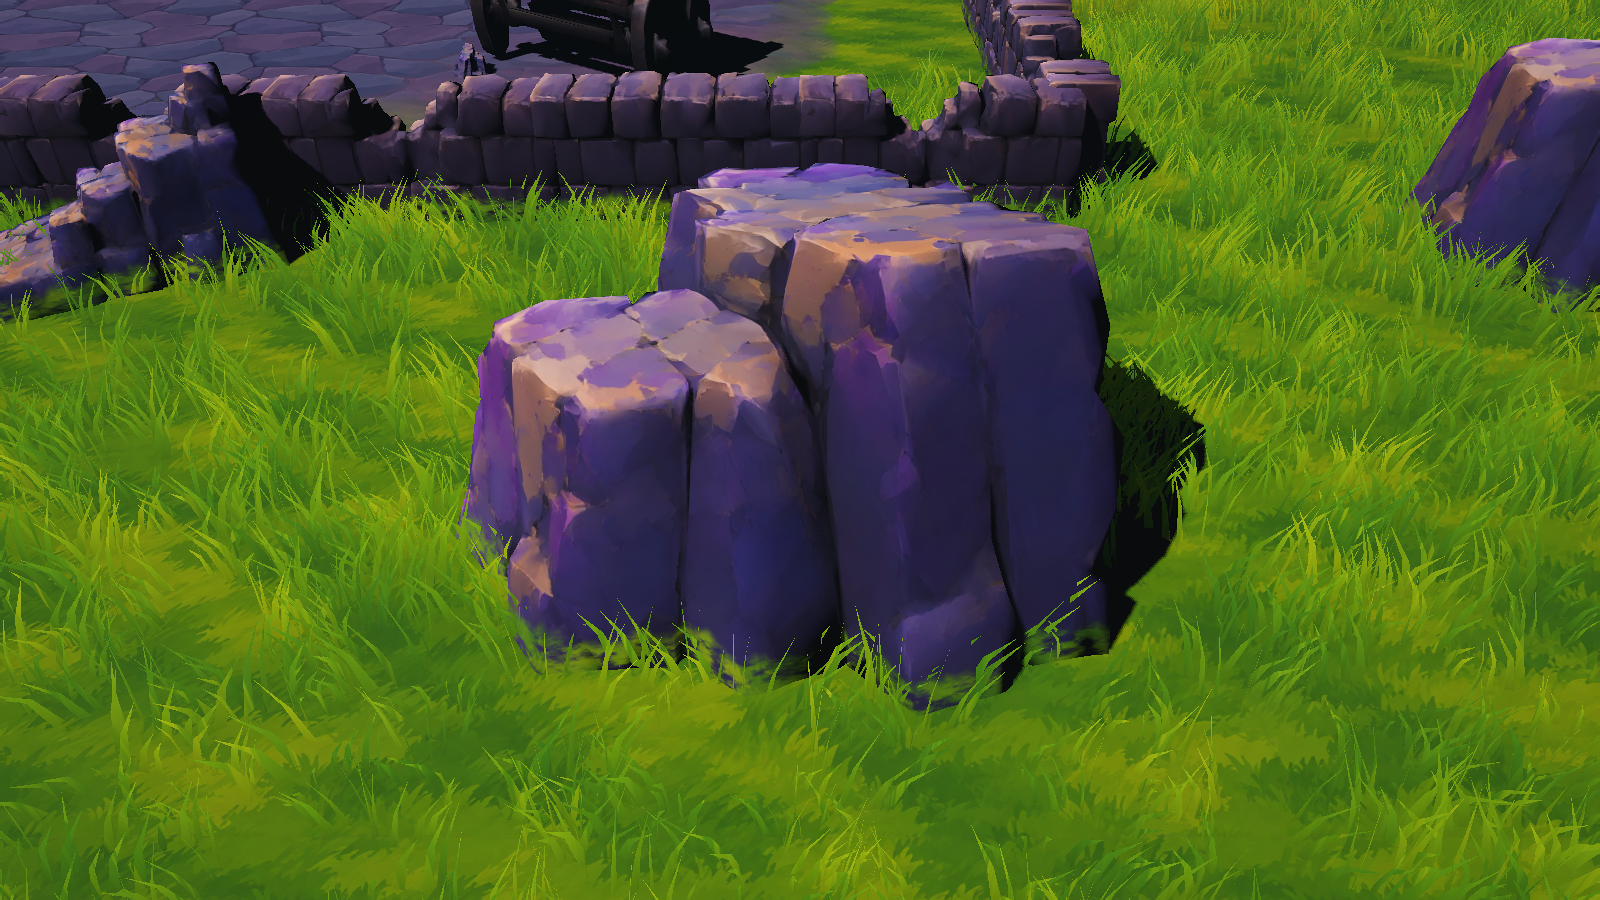
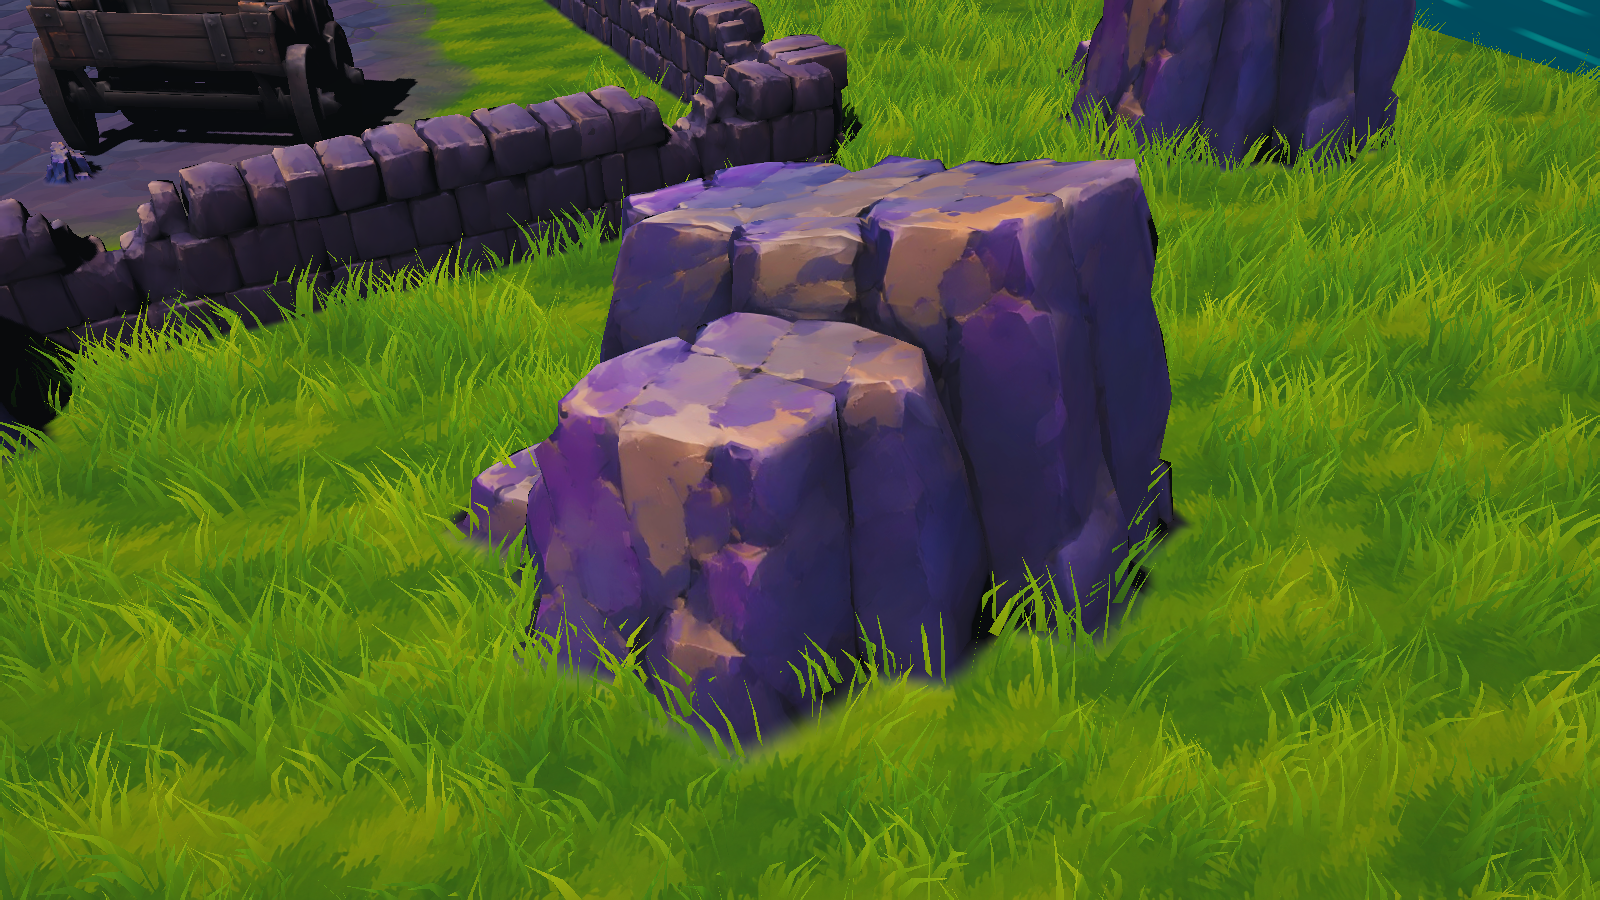
Заменить зелёное наложение геометрическим переходом мешей в землю

diff --git a/docs/RIVERBANK_GROUND_CONTACT.md b/docs/RIVERBANK_GROUND_CONTACT.md
@@ -1,29 +1,37 @@
 # Переход мешей в пол Riverbank
 
-`scenes/art/riverbank_blockout.tscn` → **GroundContact**. В Inspector:
+Текущий вариант — **геометрический стык (skirt)**. Прежнее зелёное наложение на стены отклонено автором и больше не назначается. Его шейдер оставлен как исходник; активен `riverbank_contact_skirt.gdshader`.
+
+`scenes/art/riverbank_blockout.tscn` → **GroundContact** в Inspector:
 
 - Enabled — включить/сравнить без перехода.
-- Blend Height — высота захода покрытия, сейчас **0.20 м**.
-- Edge Breakup — неровность края, сейчас **0.24 м**.
+- Blend Width — максимальная ширина перехода **0.28 м**. Для тонких стен и небольших объектов автоматически сужается до 14% меньшей стороны модуля.
+- Contact Lift — высота сечения меша **0.055 м** над полом.
+- Edge Breakup — мягкая вариация ширины **0.24**.
+- Blend Height — сохранённый параметр старого контроллера, сейчас ограничивает высоту поиска контакта **0.20 м**.
 
-Эффект работает в редакторе и игре. Низ каменных стен, скал, колонн, корней и деревьев получает пятна текущего покрытия пола: травяного, земляного или каменного. Разрывы зависят от пространственного шума и тёмных швов исходной текстуры меша. Освещение стены сохраняется; основание не превращается в светящуюся полосу.
+## Как устроено
 
-Исходные текстуры, normal/roughness и материалы импортированных моделей не заменяются. Дополнительный `material_overlay` действует только у основания. Свой уже существующий overlay объекта не перезаписывается. Расстановка, коллизии, навигация и свет не меняются. Деревянные бочки/лодки и фонари автоматически не обрастают.
+Контроллер пересекает настоящие треугольники меша горизонтальной плоскостью у земли. От полученного контура строится узкая наклонная полоса до высоты пола; прямоугольные AABB используются только для предварительного отбора. Соседние сегменты соединяются по общим точкам. Материал внутреннего края берёт исходную текстуру и UV камня, внешнего — точное покрытие пола через общий `village_floor_sampling.gdshaderinc`. Цвет, roughness и нормаль переходят от меша к земле. Стена выше стыка не перекрашивается.
+
+Это собственная адаптация подхода skirts для плоского пола Riverbank. Она не реализует виртуальное текстурирование и не копирует рендер CoD/Unreal. Новая полоса не имитирует отдельный слой зелёной краски на вертикальной поверхности.
+
+Результат генерируется в `GroundContact/_GroundSkirts`, без коллизий и теней от самой тонкой полосы. Исходная геометрия, материалы, normal maps и положение модулей не меняются. Сечения одинаковых мешей кэшируются; полосы группируются по материалу и участкам 24 м. Перестройка `_Generated` модуля запрашивает общую отложенную пересборку, многочисленные запросы объединяются. Чужие material_overlay не трогаются; снимается только прежнее наложение нашего contact-шейдера. При горячем обновлении редактора старый кэш материалов также заменяется.
+
+Старые скрытые модули пропускаются. За береговой границей полоса отсекается. Лодки, бочки и фонари не обрабатываются. В текущем прогоне: 507 затронутых мешей и 167386 дополнительных треугольников; на полосах нет прозрачного прохода. Система рассчитана на текущую плоскую землю, не на произвольные наклонные ландшафты. Её ширина и число треугольников влияют на стоимость отрисовки; стабильный FPS отдельно не подтверждён.
 
 ## Сохранённая экспозиция
 
-Перед работой снята отдельная копия **пользовательского сохранённого профиля**, а не заводских значений: `data/visual/riverbank_before_ground_contact_20261021.tres`. Экспозиция Environment **0.92**, множитель камеры **1.0**, автоэкспозиция выключена; остальные параметры света/цвета сохранены вместе с ними. Текущий `riverbank_postfx_saved.tres` не перезаписан.
+Перед первой работой сохранена отдельная копия пользовательского профиля: `data/visual/riverbank_before_ground_contact_20261021.tres`. Экспозиция Environment **0.92**, множитель камеры **1.0**, автоэкспозиция выключена. Во время переделки свет и текущий `riverbank_postfx_saved.tres` не менялись.
 
-Для возврата: **F4 → «Вернуть свет до переходов»**. Это загрузит копию в предпросмотр; нажми **«Сохранить профиль»**, если нужно оставить её на следующие запуски.
+Возврат: **F4 → «Вернуть свет до переходов»**. Копия загрузится в предпросмотр; нажми **«Сохранить профиль»**, если нужно оставить её на следующие запуски.
 
-## Устройство и проверка
+## Проверка
 
-`scripts/riverbank_ground_contact.gd` — локальный контроллер карты. `riverbank_module.gd` после перестройки `_Generated` повторно подключает переход, не меняя обычные материалы/коллизии. Overlay кэшируется по исходному материалу, текстуры и splat-карты общие с полом. За границей берега наложение отсекается.
+`scenes/tools/test_riverbank_ground_contact.tscn`: исходные материалы не изменены, старого overlay нет, сгенерированные полосы включаются/выключаются и восстанавливаются после перестройки модуля, кнопка возврата восстанавливает экспозицию 0.92. Реальные D3D12 кадры `docs/art_direction/riverbank/ground_contact_*.png`: стена до/после, валун, игровая камера. `riverbank_playtest.tscn -- --check` проверяет проходы, навигацию, 24 врага, стрельбу и паузу без сохранения забега. Известные предупреждения освобождения графических ресурсов при выходе остаются.
 
-`assets/shaders/riverbank_ground_contact.gdshader` — маска высоты/швов и наложение. `village_floor_sampling.gdshaderinc` — прежняя функция смешивания покрытий, вынесенная без изменения расчёта цвета/весов из `village_floor_blend.gdshader`; ею пользуются и пол, и контактный проход. Поэтому алгоритм пола не продублирован и не перенастроен для других сцен.
+## Прочитанные источники
 
-Ограничение: текущая карта имеет плоский пол; это переход относительно его высоты, а не универсальное определение контакта с любым наклонным ландшафтом. Дополнительный проход увеличивает стоимость отрисовки; стабильный FPS отдельно не подтверждён. Чёрные тени при нулевом ambient текущего пользовательского профиля не исправлялись изменением света.
-
-`scenes/tools/test_riverbank_ground_contact.tscn`: проверяет исходные материалы, общие карты пола, выключение/включение, перестройку модуля, резервную экспозицию. D3D12 сохраняет реальные кадры `docs/art_direction/riverbank/ground_contact_*.png`. `riverbank_playtest.tscn -- --check`: физический проход, навигация, 24 врага, огненное попадание и пауза; сохранения игры не пишутся. Известные предупреждения освобождения графических ресурсов при выходе остаются.
-
-Источники API: [GeometryInstance3D.material_overlay](https://docs.godotengine.org/en/stable/classes/class_geometryinstance3d.html#class-geometryinstance3d-property-material-overlay), [Shader includes](https://docs.godotengine.org/en/stable/tutorials/shaders/shader_reference/shader_preprocessor.html#shader-includes).
+- [Stephane Etienne, Large Scale Terrain Rendering, Advances in Real-Time Rendering 2023](https://advances.realtimerendering.com/s2023/Etienne%28ATVI%29-Large%20Scale%20Terrain%20Rendering%20with%20notes%20%28Advances%202023%29.pdf), PDF стр. 60, раздел Skirts: согласование геометрии с высотой земли и смешивание материалов у контакта. Отсюда взят принцип, а не код/текстуры.
+- [Godot: Using Decals](https://docs.godotengine.org/en/stable/tutorials/3d/using_decals.html): проекционные детали и normal fade. Декали добавляют материальные детали, но не исправляют силуэт стыка; поэтому здесь выбрана узкая геометрия.
+- [Epic: Runtime Virtual Texturing](https://dev.epicgames.com/documentation/en-us/unreal-engine/runtime-virtual-texturing-in-unreal-engine): передача цвета, нормалей и roughness между поверхностями. В Godot текущий общий расчёт пола используется непосредственно, без RVT.
